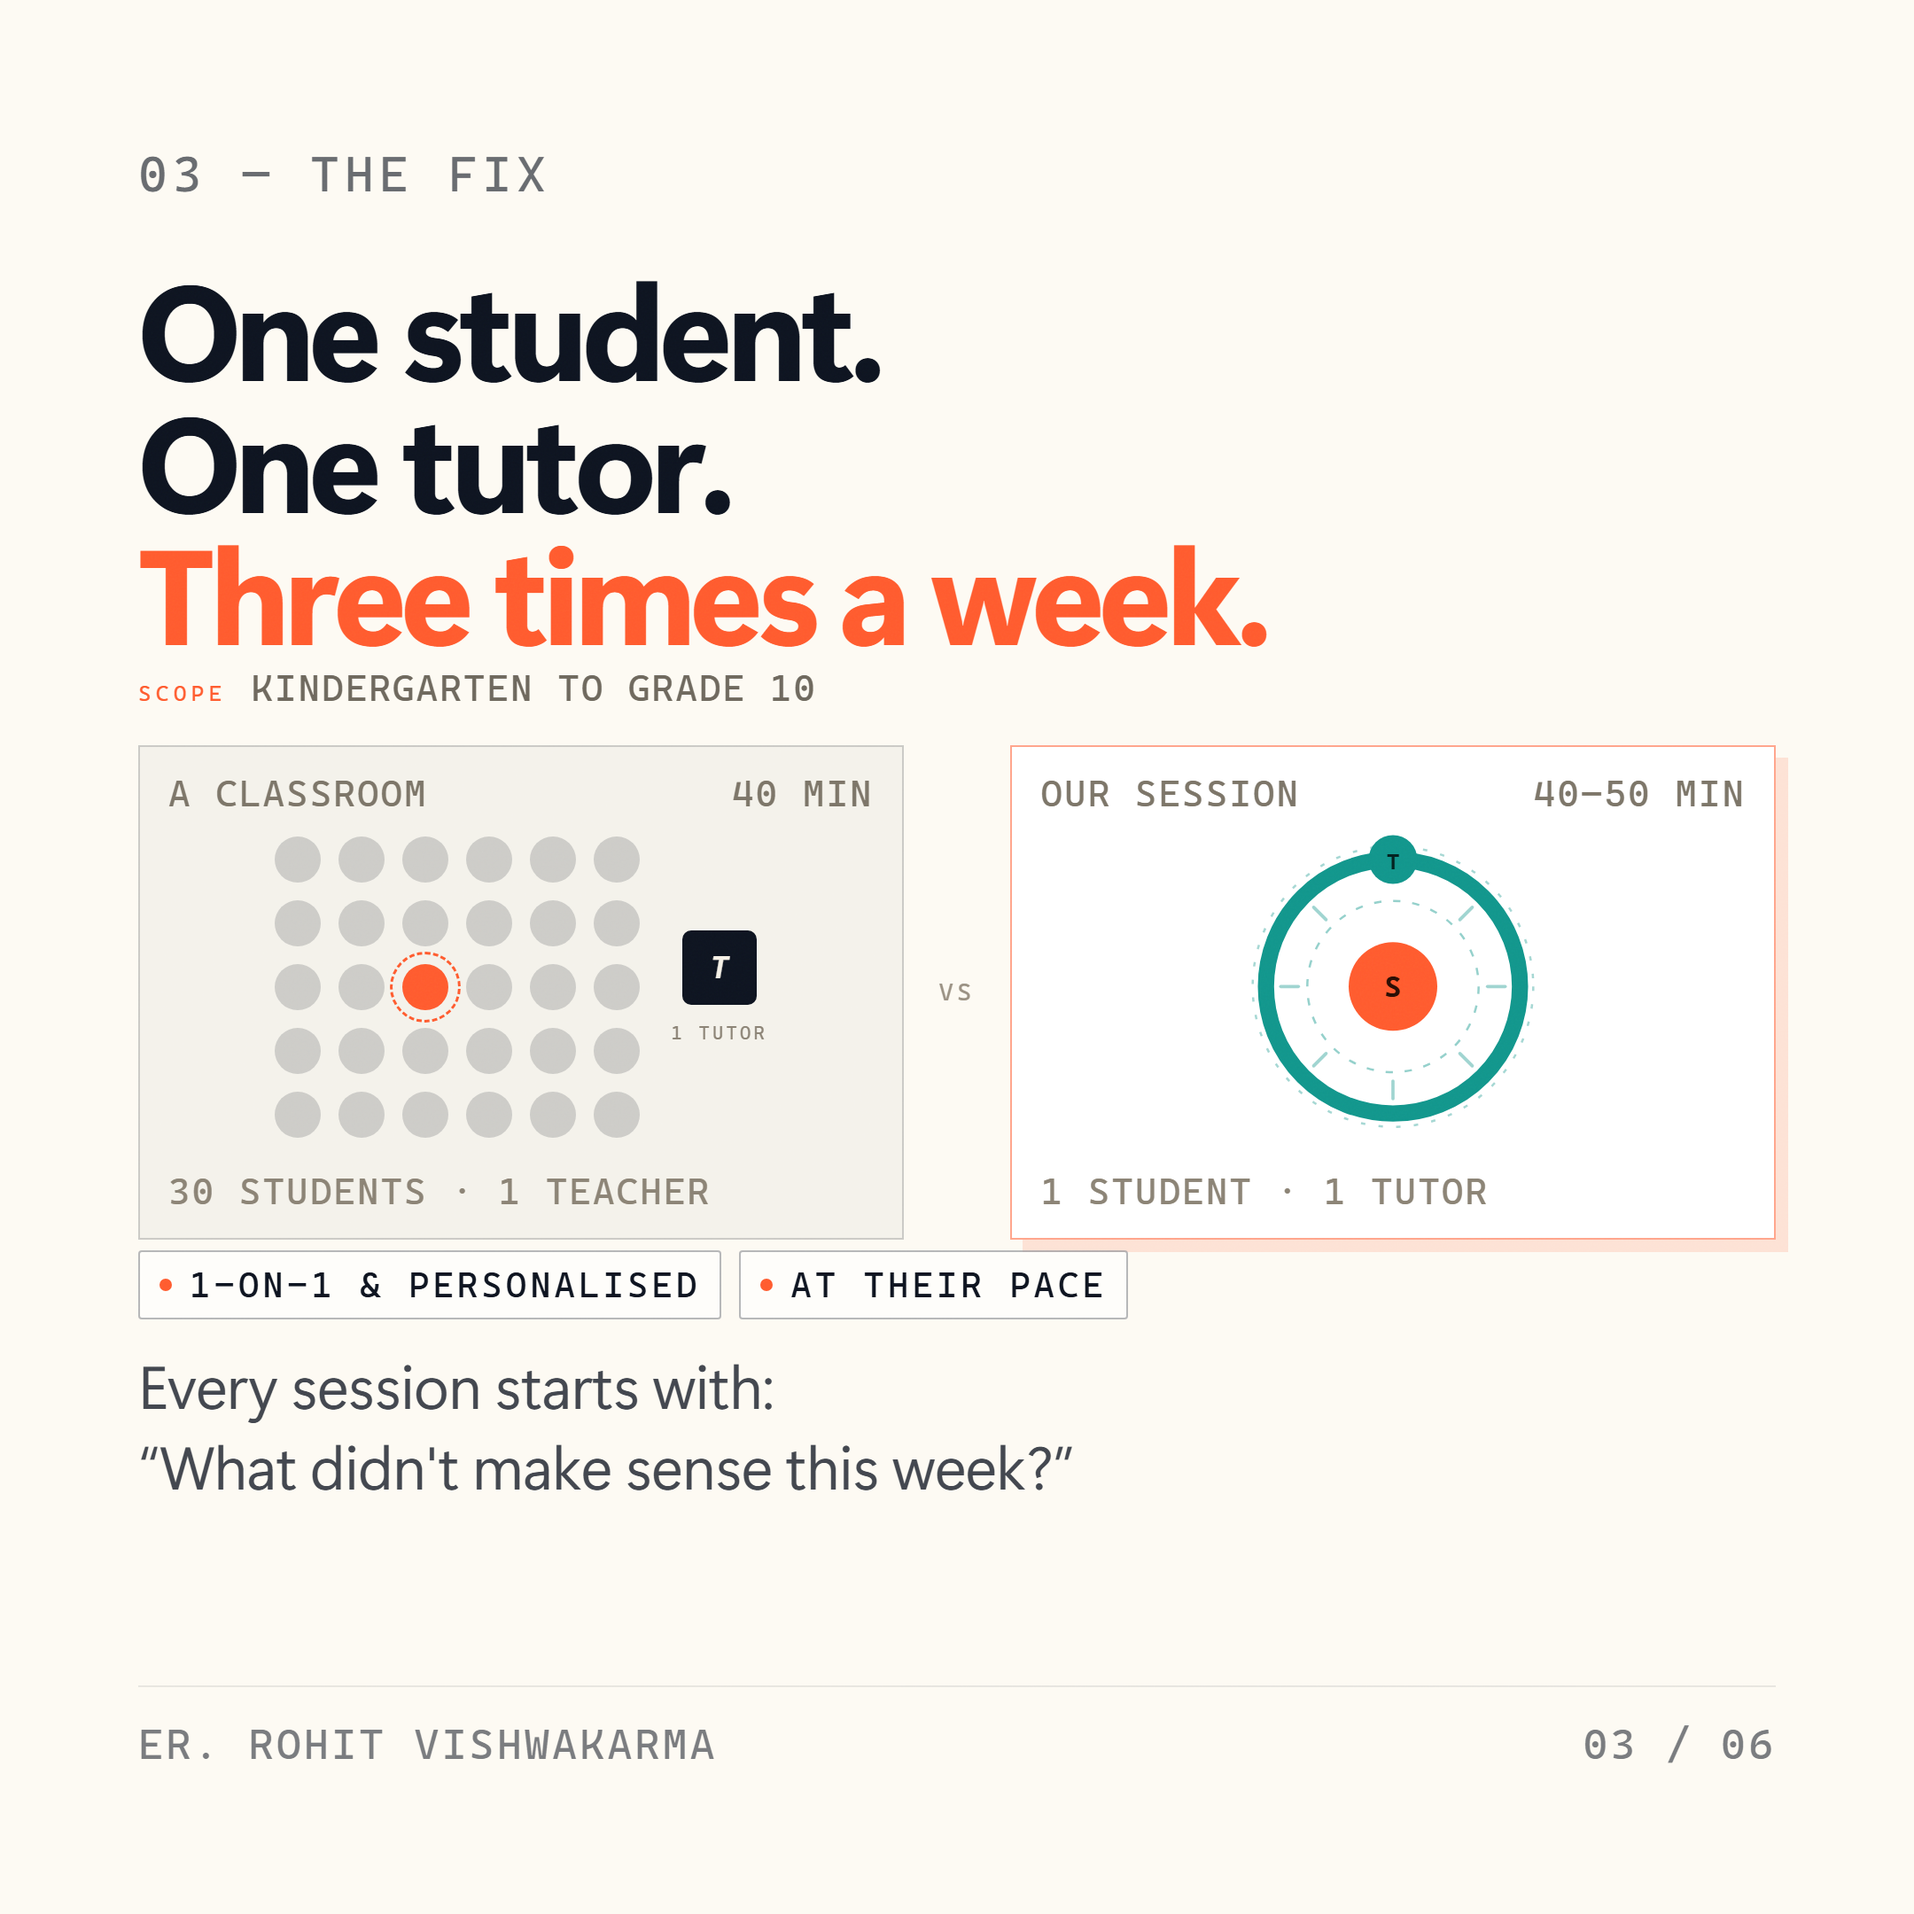
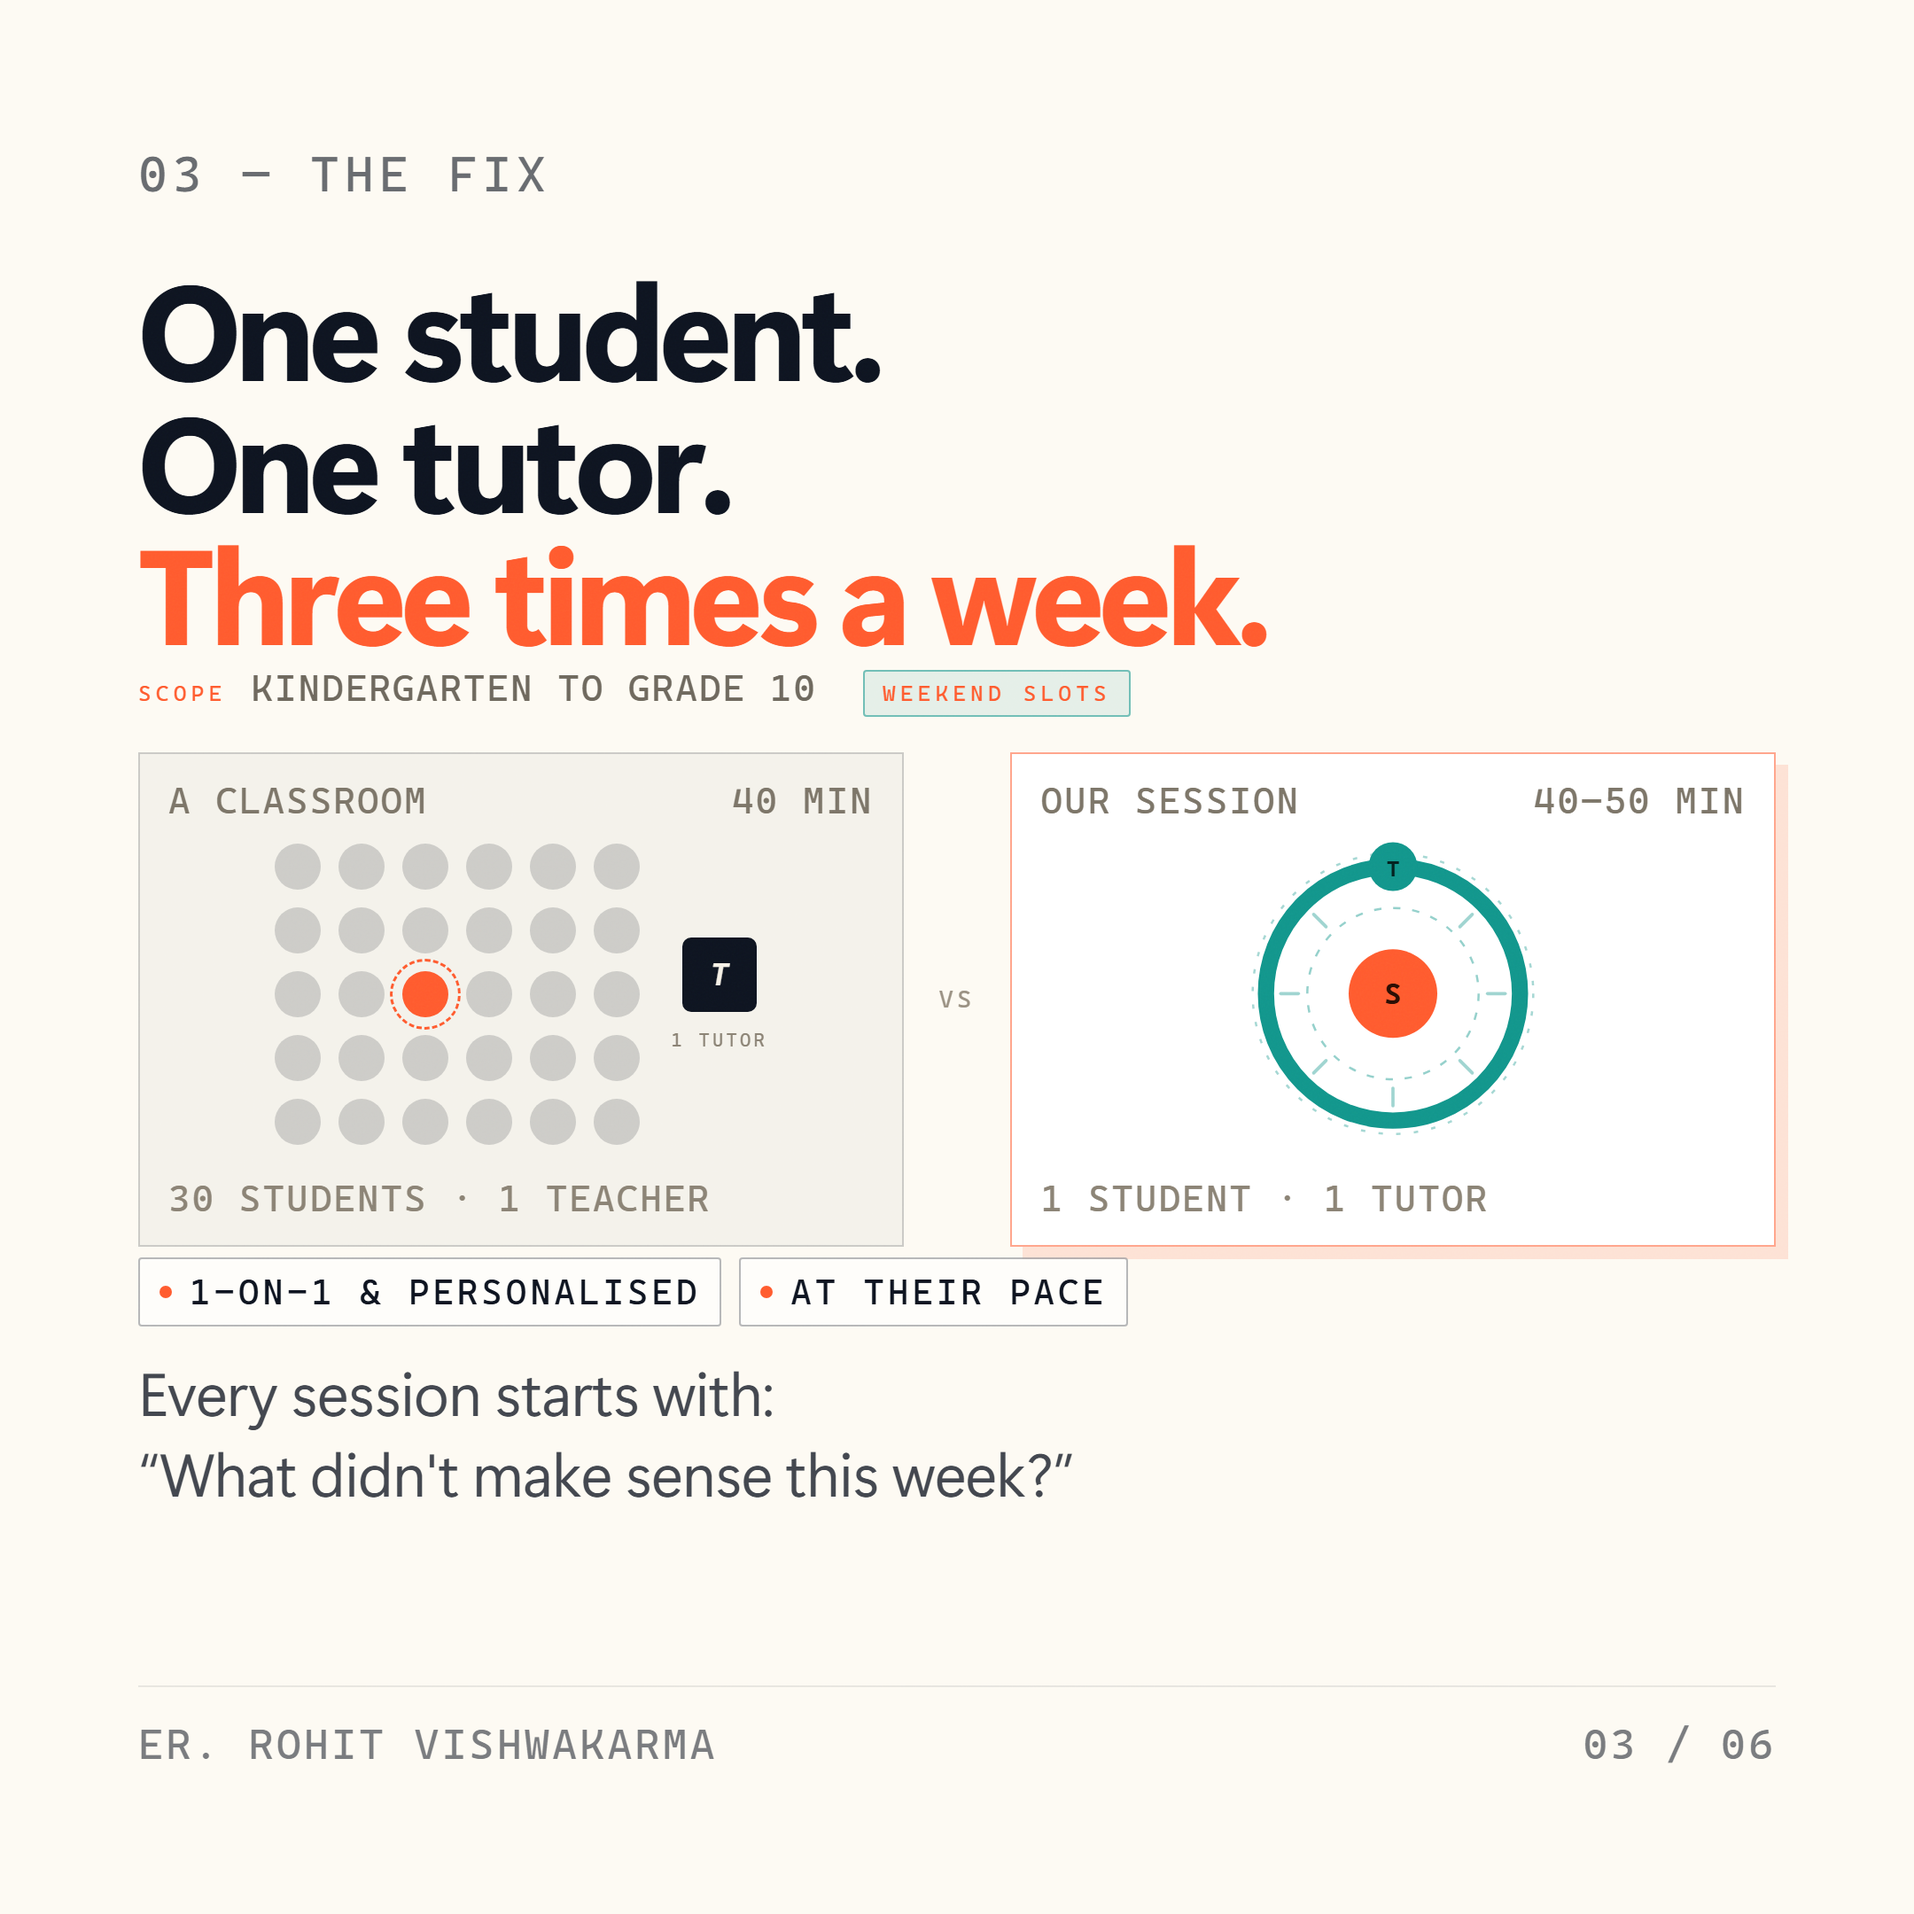
S4 credential cleanup + S3 weekend-slots tag

diff --git a/nextgen-creative-kit-45.html b/nextgen-creative-kit-45.html
@@ -153,6 +153,10 @@
   .s3-scope{display:flex;align-items:baseline;gap:14px;margin-top:18px;
     font-family:var(--mono);font-size:15px;letter-spacing:1.7px;color:#6E685D}
   .s3-scope span{font-size:12.5px;letter-spacing:2.6px;color:var(--coral)}
+  .s3-weekend{display:inline-flex;align-items:center;margin-left:12px;
+    font-family:var(--mono);font-size:11px;letter-spacing:1.8px;color:#0F766E;
+    background:rgba(18,150,140,.10);border:1.2px solid rgba(18,150,140,.55);
+    padding:4px 9px;border-radius:2px;vertical-align:middle}
   .s3-scope b{font-weight:400;color:rgba(14,20,32,.3)}
 
   /* ---------- S4 : the tutor ---------- */
@@ -652,7 +656,7 @@
         <div class="slide sq light s3">
           <div class="kicker">03 — THE FIX</div>
           <div class="h1 sm">One student.<br>One tutor.<br><em>Three times a week.</em></div>
-          <div class="s3-scope"><span>SCOPE</span>KINDERGARTEN TO GRADE 10</div>
+          <div class="s3-scope"><span>SCOPE</span>KINDERGARTEN TO GRADE 10<span class="s3-weekend">WEEKEND SLOTS</span></div>
           <div class="s3-diagram">
             <div class="s3-panel">
               <div class="s3-h"><span>A CLASSROOM</span><span>40 MIN</span></div>
@@ -712,8 +716,8 @@
                 <div class="s4-k">1-ON-1 MATH · ONLINE</div>
                 <div class="s4-name">Er. Rohit<br>Vishwakarma</div>
                 <div class="s4-cred">
-                  <span class="s4-c">B.TECH &amp; M.TECH · GRADUATE OF</span>
-                  <b class="s4-v teal">IIIT ALLAHABAD</b>
+                  <span class="s4-c">EDUCATION</span>
+                  <b class="s4-v teal">B.TECH &amp; M.TECH · IIIT ALLAHABAD</b>
                 </div>
                 <div class="s4-cred">
                   <span class="s4-c">EX-SDE · FORMERLY AT</span>
@@ -1441,6 +1445,7 @@
   .chip{font-size:20px;padding:7px 11px}
   .s3-h,.s3-f{font-size:21px;letter-spacing:1px}
   .s3-scope{font-size:21px;letter-spacing:1px;margin-top:6px}
+  .s3-weekend{font-size:14px;letter-spacing:1.4px;padding:5px 10px}
   .riyadh-tag{font-size:21px;letter-spacing:.8px;padding:5px 11px}
 
   /* S4 — note must stay inside the photo card, above the footer */
@@ -1543,6 +1548,7 @@
   .s3 .body{font-size:46px}
   .s3-h,.s3-f{font-size:26px;letter-spacing:1px}
   .s3-scope{font-size:26px;letter-spacing:1px}
+  .s3-weekend{font-size:16px;letter-spacing:1.4px;padding:6px 11px}
   .chip{font-size:22px;padding:7px 12px}
   .riyadh-tag{font-size:22px;letter-spacing:.8px;padding:8px 12px}
 

diff --git a/nextgen-creative-kit-riyadh-45.html b/nextgen-creative-kit-riyadh-45.html
@@ -153,6 +153,10 @@
   .s3-scope{display:flex;align-items:baseline;gap:14px;margin-top:18px;
     font-family:var(--mono);font-size:15px;letter-spacing:1.7px;color:#6E685D}
   .s3-scope span{font-size:12.5px;letter-spacing:2.6px;color:var(--coral)}
+  .s3-weekend{display:inline-flex;align-items:center;margin-left:12px;
+    font-family:var(--mono);font-size:11px;letter-spacing:1.8px;color:#0F766E;
+    background:rgba(18,150,140,.10);border:1.2px solid rgba(18,150,140,.55);
+    padding:4px 9px;border-radius:2px;vertical-align:middle}
   .s3-scope b{font-weight:400;color:rgba(14,20,32,.3)}
 
   /* ---------- S4 : the tutor ---------- */
@@ -652,7 +656,7 @@
         <div class="slide sq light s3">
           <div class="kicker">03 — THE FIX</div>
           <div class="h1 sm">One student.<br>One tutor.<br><em>Three times a week.</em></div>
-          <div class="s3-scope"><span>SCOPE</span>KINDERGARTEN TO GRADE 10</div>
+          <div class="s3-scope"><span>SCOPE</span>KINDERGARTEN TO GRADE 10<span class="s3-weekend">WEEKEND SLOTS</span></div>
           <div class="s3-diagram">
             <div class="s3-panel">
               <div class="s3-h"><span>A CLASSROOM</span><span>40 MIN</span></div>
@@ -712,8 +716,8 @@
                 <div class="s4-k">1-ON-1 MATH · ONLINE</div>
                 <div class="s4-name">Er. Rohit<br>Vishwakarma</div>
                 <div class="s4-cred">
-                  <span class="s4-c">B.TECH &amp; M.TECH · GRADUATE OF</span>
-                  <b class="s4-v teal">IIIT ALLAHABAD</b>
+                  <span class="s4-c">EDUCATION</span>
+                  <b class="s4-v teal">B.TECH &amp; M.TECH · IIIT ALLAHABAD</b>
                 </div>
                 <div class="s4-cred">
                   <span class="s4-c">EX-SDE · FORMERLY AT</span>
@@ -1471,6 +1475,7 @@
   .chip{font-size:20px;padding:7px 11px}
   .s3-h,.s3-f{font-size:21px;letter-spacing:1px}
   .s3-scope{font-size:21px;letter-spacing:1px;margin-top:6px}
+  .s3-weekend{font-size:14px;letter-spacing:1.4px;padding:5px 10px}
   .riyadh-tag{font-size:21px;letter-spacing:.8px;padding:5px 11px}
 
   /* S4 — note must stay inside the photo card, above the footer */
@@ -1573,6 +1578,7 @@
   .s3 .body{font-size:46px}
   .s3-h,.s3-f{font-size:26px;letter-spacing:1px}
   .s3-scope{font-size:26px;letter-spacing:1px}
+  .s3-weekend{font-size:16px;letter-spacing:1.4px;padding:6px 11px}
   .chip{font-size:22px;padding:7px 12px}
   .riyadh-tag{font-size:22px;letter-spacing:.8px;padding:8px 12px}
 

diff --git a/nextgen-creative-kit-riyadh.html b/nextgen-creative-kit-riyadh.html
@@ -153,6 +153,10 @@
   .s3-scope{display:flex;align-items:baseline;gap:14px;margin-top:18px;
     font-family:var(--mono);font-size:15px;letter-spacing:1.7px;color:#6E685D}
   .s3-scope span{font-size:12.5px;letter-spacing:2.6px;color:var(--coral)}
+  .s3-weekend{display:inline-flex;align-items:center;margin-left:12px;
+    font-family:var(--mono);font-size:11px;letter-spacing:1.8px;color:#0F766E;
+    background:rgba(18,150,140,.10);border:1.2px solid rgba(18,150,140,.55);
+    padding:4px 9px;border-radius:2px;vertical-align:middle}
   .s3-scope b{font-weight:400;color:rgba(14,20,32,.3)}
 
   /* ---------- S4 : the tutor ---------- */
@@ -652,7 +656,7 @@
         <div class="slide sq light s3">
           <div class="kicker">03 — THE FIX</div>
           <div class="h1 sm">One student.<br>One tutor.<br><em>Three times a week.</em></div>
-          <div class="s3-scope"><span>SCOPE</span>KINDERGARTEN TO GRADE 10</div>
+          <div class="s3-scope"><span>SCOPE</span>KINDERGARTEN TO GRADE 10<span class="s3-weekend">WEEKEND SLOTS</span></div>
           <div class="s3-diagram">
             <div class="s3-panel">
               <div class="s3-h"><span>A CLASSROOM</span><span>40 MIN</span></div>
@@ -712,8 +716,8 @@
                 <div class="s4-k">1-ON-1 MATH · ONLINE</div>
                 <div class="s4-name">Er. Rohit<br>Vishwakarma</div>
                 <div class="s4-cred">
-                  <span class="s4-c">B.TECH &amp; M.TECH · GRADUATE OF</span>
-                  <b class="s4-v teal">IIIT ALLAHABAD</b>
+                  <span class="s4-c">EDUCATION</span>
+                  <b class="s4-v teal">B.TECH &amp; M.TECH · IIIT ALLAHABAD</b>
                 </div>
                 <div class="s4-cred">
                   <span class="s4-c">EX-SDE · FORMERLY AT</span>
@@ -1471,6 +1475,7 @@
   .chip{font-size:20px;padding:7px 11px}
   .s3-h,.s3-f{font-size:21px;letter-spacing:1px}
   .s3-scope{font-size:21px;letter-spacing:1px;margin-top:6px}
+  .s3-weekend{font-size:14px;letter-spacing:1.4px;padding:5px 10px}
   .riyadh-tag{font-size:21px;letter-spacing:.8px;padding:5px 11px}
 
   /* S4 — note must stay inside the photo card, above the footer */

diff --git a/nextgen-creative-kit.html b/nextgen-creative-kit.html
@@ -153,6 +153,10 @@
   .s3-scope{display:flex;align-items:baseline;gap:14px;margin-top:18px;
     font-family:var(--mono);font-size:15px;letter-spacing:1.7px;color:#6E685D}
   .s3-scope span{font-size:12.5px;letter-spacing:2.6px;color:var(--coral)}
+  .s3-weekend{display:inline-flex;align-items:center;margin-left:12px;
+    font-family:var(--mono);font-size:11px;letter-spacing:1.8px;color:#0F766E;
+    background:rgba(18,150,140,.10);border:1.2px solid rgba(18,150,140,.55);
+    padding:4px 9px;border-radius:2px;vertical-align:middle}
   .s3-scope b{font-weight:400;color:rgba(14,20,32,.3)}
 
   /* ---------- S4 : the tutor ---------- */
@@ -652,7 +656,7 @@
         <div class="slide sq light s3">
           <div class="kicker">03 — THE FIX</div>
           <div class="h1 sm">One student.<br>One tutor.<br><em>Three times a week.</em></div>
-          <div class="s3-scope"><span>SCOPE</span>KINDERGARTEN TO GRADE 10</div>
+          <div class="s3-scope"><span>SCOPE</span>KINDERGARTEN TO GRADE 10<span class="s3-weekend">WEEKEND SLOTS</span></div>
           <div class="s3-diagram">
             <div class="s3-panel">
               <div class="s3-h"><span>A CLASSROOM</span><span>40 MIN</span></div>
@@ -712,8 +716,8 @@
                 <div class="s4-k">1-ON-1 MATH · ONLINE</div>
                 <div class="s4-name">Er. Rohit<br>Vishwakarma</div>
                 <div class="s4-cred">
-                  <span class="s4-c">B.TECH &amp; M.TECH · GRADUATE OF</span>
-                  <b class="s4-v teal">IIIT ALLAHABAD</b>
+                  <span class="s4-c">EDUCATION</span>
+                  <b class="s4-v teal">B.TECH &amp; M.TECH · IIIT ALLAHABAD</b>
                 </div>
                 <div class="s4-cred">
                   <span class="s4-c">EX-SDE · FORMERLY AT</span>
@@ -1441,6 +1445,7 @@
   .chip{font-size:20px;padding:7px 11px}
   .s3-h,.s3-f{font-size:21px;letter-spacing:1px}
   .s3-scope{font-size:21px;letter-spacing:1px;margin-top:6px}
+  .s3-weekend{font-size:14px;letter-spacing:1.4px;padding:5px 10px}
   .riyadh-tag{font-size:21px;letter-spacing:.8px;padding:5px 11px}
 
   /* S4 — note must stay inside the photo card, above the footer */

diff --git a/exports/make-carousel-45.py b/exports/make-carousel-45.py
@@ -78,6 +78,7 @@ TEXT_45 = """
   .s3 .body{font-size:46px}
   .s3-h,.s3-f{font-size:26px;letter-spacing:1px}
   .s3-scope{font-size:26px;letter-spacing:1px}
+  .s3-weekend{font-size:16px;letter-spacing:1.4px;padding:6px 11px}
   .chip{font-size:22px;padding:7px 12px}
   .riyadh-tag{font-size:22px;letter-spacing:.8px;padding:8px 12px}
 
